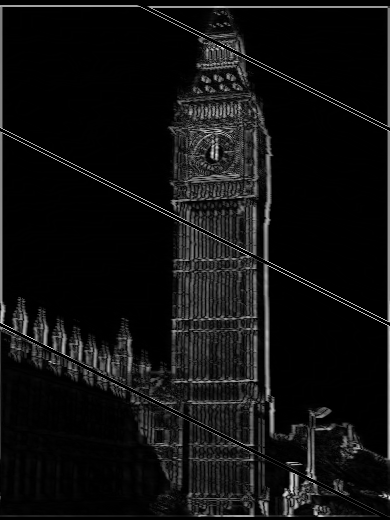
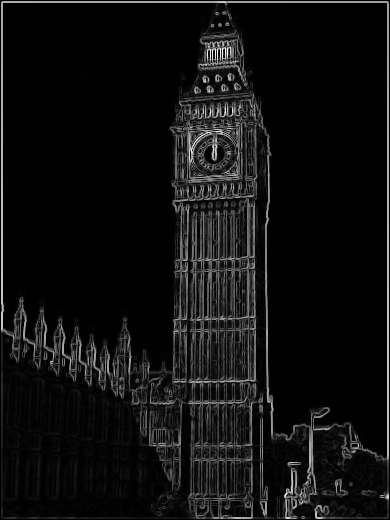
fix: fix stripes due to width and pitch diff

diff --git a/main.cpp b/main.cpp
@@ -39,44 +39,40 @@ float gaussian(float x, double sigma) {
     return expf(-(powf(x, 2)) / (2 * powf(sigma, 2))) / (2 * M_PI * powf(sigma, 2));
 }
 
-void applyBilateralFilterPixel(BYTE *src, BYTE *dst, int imageWidth, int imageHeight, int diameter, float sigmaI, float sigmaS, int i, int j) {
-    float iFiltered = 0;
-    float wP = 0;
-    int neighbor_i = 0;
-    int neighbor_j = 0;
-    int half = diameter / 2;
-
-    for (int ii = 0; ii < diameter; ii++) {
-        for (int jj = 0; jj < diameter; jj++) {
-            neighbor_i = i - (half - ii);
-            neighbor_j = j - (half - jj);
-            float gi = gaussian(src[neighbor_i * imageWidth + neighbor_j] - src[i * imageWidth + j], sigmaI);
-            float gs = gaussian(distance(i, j, neighbor_i, neighbor_j), sigmaS);
-            float w = gi * gs;
-            iFiltered = iFiltered + src[neighbor_i * imageWidth + neighbor_j] * w;
-            wP = wP + w;
-        }
-    }
-    iFiltered = iFiltered / wP;
-    dst[i * imageWidth + j] = iFiltered;
-}
-
-void applyBilateralFilter(BYTE *src, BYTE *dst, int imageWidth, int imageHeight, int diameter, float sigmaI, float sigmaS) {
+void applyBilateralFilter(BYTE *src, BYTE *dst, int imageWidth, int imageHeight, int imagePitch, int diameter, float sigmaI, float sigmaS) {
     int half = diameter / 2;
 
     for (int i = half; i < imageHeight - half; i++) {
         for (int j = half; j < imageWidth - half; j++) {
-            applyBilateralFilterPixel(src, dst, imageWidth, imageHeight, diameter, sigmaI, sigmaS, i, j);
+            float iFiltered = 0;
+            float wP = 0;
+            int neighbor_i = 0;
+            int neighbor_j = 0;
+            int half = diameter / 2;
+
+            for (int ii = 0; ii < diameter; ii++) {
+                for (int jj = 0; jj < diameter; jj++) {
+                    neighbor_i = i - (half - ii);
+                    neighbor_j = j - (half - jj);
+                    float gi = gaussian(src[neighbor_i * imagePitch + neighbor_j] - src[i * imagePitch + j], sigmaI);
+                    float gs = gaussian(distance(i, j, neighbor_i, neighbor_j), sigmaS);
+                    float w = gi * gs;
+                    iFiltered = iFiltered + src[neighbor_i * imagePitch + neighbor_j] * w;
+                    wP = wP + w;
+                }
+            }
+            iFiltered = iFiltered / wP;
+            dst[i * imagePitch + j] = iFiltered;
         }
     }
 }
 
 // https://github.com/brunokeymolen/canny/blob/master/canny.cpp
-void applySobelFilter(BYTE *src, BYTE *gradient, float *direction, int imageWidth, int imageHeight) {
+void applySobelFilter(BYTE *src, BYTE *gradient, float *direction, int imageWidth, int imageHeight, int imagePitch) {
     int xFilter[3][3] = {{-1, 0, 1}, {-2, 0, 2}, {-1, 0, 1}};
     int yFilter[3][3] = {{1, 2, 1}, {0, 0, 0}, {-1, -2, -1}};
     float maxGradient = 0.f;
-    float *gradientTemp = new float[imageWidth * imageHeight];
+    float *gradientTemp = new float[imagePitch * imageHeight];
     for (int i = 1; i < imageHeight - 1; i++) {
         for (int j = 1; j < imageWidth - 1; j++) {
             float xGradient = 0;
@@ -85,65 +81,65 @@ void applySobelFilter(BYTE *src, BYTE *gradient, float *direction, int imageWidt
                 for (int jj = 0; jj < 3; jj++) {
                     int neighbor_i = i + ii - 1;
                     int neighbor_j = j + jj - 1;
-                    xGradient += xFilter[ii][jj] * src[neighbor_i * imageWidth + neighbor_j];
-                    yGradient += yFilter[ii][jj] * src[neighbor_i * imageWidth + neighbor_j];
+                    xGradient += xFilter[ii][jj] * src[neighbor_i * imagePitch + neighbor_j];
+                    yGradient += yFilter[ii][jj] * src[neighbor_i * imagePitch + neighbor_j];
                 }
             }
             float grad = sqrtf(xGradient * xGradient + yGradient * yGradient);
 
-            gradientTemp[i * imageWidth + j] = grad;
+            gradientTemp[i * imagePitch + j] = grad;
             maxGradient = std::max(grad, maxGradient);
 
-            direction[i * imageWidth + j] = atan2f(yGradient, xGradient) * 180.f / M_PI;
-            if (direction[i * imageWidth + j] < 0) {
-                direction[i * imageWidth + j] += 180.f;
+            direction[i * imagePitch + j] = atan2f(yGradient, xGradient) * 180.f / M_PI;
+            if (direction[i * imagePitch + j] < 0) {
+                direction[i * imagePitch + j] += 180.f;
             }
         }
     }
 
     for (int i = 1; i < imageHeight - 1; i++) {
         for (int j = 1; j < imageWidth - 1; j++) {
-            gradient[i * imageWidth + j] = gradientTemp[i * imageWidth + j] / maxGradient * 255;
+            gradient[i * imagePitch + j] = gradientTemp[i * imagePitch + j] / maxGradient * 255;
         }
     }
 }
 
-void applyNonMaxSuppression(BYTE *src, BYTE *dst, float *direction, int imageWidth, int imageHeight) {
+void applyNonMaxSuppression(BYTE *src, BYTE *dst, float *direction, int imageWidth, int imageHeight, int imagePitch) {
     for (int i = 1; i < imageHeight - 1; i++) {
         for (int j = 1; j < imageWidth - 1; j++) {
             int q = 255;
             int r = 255;
 
-            if ((0 <= direction[i * imageWidth + j] && direction[i * imageWidth + j] < 22.5) || (157.5 <= direction[i * imageWidth + j] && direction[i * imageWidth + j] <= 180)) {
-                q = src[i * imageWidth + j + 1];
-                r = src[i * imageWidth + j - 1];
-            } else if (22.5 <= direction[i * imageWidth + j] && direction[i * imageWidth + j] < 67.5) {
-                q = src[(i + 1) * imageWidth + j - 1];
-                r = src[(i - 1) * imageWidth + j + 1];
-            } else if (67.5 <= direction[i * imageWidth + j] && direction[i * imageWidth + j] < 112.5) {
-                q = src[(i + 1) * imageWidth + j];
-                r = src[(i - 1) * imageWidth + j];
-            } else if (112.5 <= direction[i * imageWidth + j] && direction[i * imageWidth + j] < 157.5) {
-                q = src[(i - 1) * imageWidth + j - 1];
-                r = src[(i + 1) * imageWidth + j + 1];
+            if ((0 <= direction[i * imagePitch + j] && direction[i * imagePitch + j] < 22.5) || (157.5 <= direction[i * imagePitch + j] && direction[i * imagePitch + j] <= 180)) {
+                q = src[i * imagePitch + j + 1];
+                r = src[i * imagePitch + j - 1];
+            } else if (22.5 <= direction[i * imagePitch + j] && direction[i * imagePitch + j] < 67.5) {
+                q = src[(i + 1) * imagePitch + j - 1];
+                r = src[(i - 1) * imagePitch + j + 1];
+            } else if (67.5 <= direction[i * imagePitch + j] && direction[i * imagePitch + j] < 112.5) {
+                q = src[(i + 1) * imagePitch + j];
+                r = src[(i - 1) * imagePitch + j];
+            } else if (112.5 <= direction[i * imagePitch + j] && direction[i * imagePitch + j] < 157.5) {
+                q = src[(i - 1) * imagePitch + j - 1];
+                r = src[(i + 1) * imagePitch + j + 1];
             }
-            if ((src[i * imageWidth + j] >= q) && (src[i * imageWidth + j] >= r)) {
-                dst[i * imageWidth + j] = src[i * imageWidth + j];
+            if ((src[i * imagePitch + j] >= q) && (src[i * imagePitch + j] >= r)) {
+                dst[i * imagePitch + j] = src[i * imagePitch + j];
             } else {
-                dst[i * imageWidth + j] = 0;
+                dst[i * imagePitch + j] = 0;
             }
         }
     }
 }
 
-void applyThreshold(BYTE *image, int imageWidth, int imageHeight) {
+void applyThreshold(BYTE *image, int imageWidth, int imageHeight, int imagePitch) {
     float lowThresholdRatio = 0.05f;
     float highThresholdRatio = 0.09f;
     int maxPixel = 0;
     for (int i = 1; i < imageHeight - 1; i++) {
         for (int j = 1; j < imageWidth - 1; j++) {
-            if (image[i * imageWidth + j] > maxPixel) {
-                maxPixel = image[i * imageWidth + j];
+            if (image[i * imagePitch + j] > maxPixel) {
+                maxPixel = image[i * imagePitch + j];
             }
         }
     }
@@ -151,28 +147,28 @@ void applyThreshold(BYTE *image, int imageWidth, int imageHeight) {
     int lowThreshold = highThreshold * lowThresholdRatio;
     for (int i = 1; i < imageHeight - 1; i++) {
         for (int j = 1; j < imageWidth - 1; j++) {
-            if (image[i * imageWidth + j] >= highThreshold) {
-                image[i * imageWidth + j] = STRONG;
-            } else if (image[i * imageWidth + j] >= lowThreshold) {
-                image[i * imageWidth + j] = WEAK;
+            if (image[i * imagePitch + j] >= highThreshold) {
+                image[i * imagePitch + j] = STRONG;
+            } else if (image[i * imagePitch + j] >= lowThreshold) {
+                image[i * imagePitch + j] = WEAK;
             } else {
-                image[i * imageWidth + j] = 0;
+                image[i * imagePitch + j] = 0;
             }
         }
     }
 }
 
-void applyHysteresis(BYTE *image, int imageWidth, int imageHeight) {
+void applyHysteresis(BYTE *image, int imageWidth, int imageHeight, int imagePitch) {
     for (int i = 1; i < imageHeight - 1; i++) {
         for (int j = 1; j < imageWidth - 1; j++) {
-            if (image[i * imageWidth+ j] == WEAK) {
-                if ((image[(i + 1) * imageWidth + j - 1] == STRONG) || (image[(i + 1) * imageWidth + j] == STRONG) 
-                || (image[(i + 1) * imageWidth + j + 1] == STRONG) || (image[i * imageWidth + j - 1] == STRONG) 
-                || (image[i * imageWidth + j + 1] == STRONG) || (image[(i - 1) * imageWidth + j - 1] == STRONG) 
-                || (image[(i - 1) * imageWidth + j] == STRONG) || (image[(i - 1) * imageWidth + j + 1] == STRONG)) {
-                    image[i* imageWidth+ j] = STRONG;
+            if (image[i * imagePitch+ j] == WEAK) {
+                if ((image[(i + 1) * imagePitch + j - 1] == STRONG) || (image[(i + 1) * imagePitch + j] == STRONG) 
+                || (image[(i + 1) * imagePitch + j + 1] == STRONG) || (image[i * imagePitch + j - 1] == STRONG) 
+                || (image[i * imagePitch + j + 1] == STRONG) || (image[(i - 1) * imagePitch + j - 1] == STRONG) 
+                || (image[(i - 1) * imagePitch + j] == STRONG) || (image[(i - 1) * imagePitch + j + 1] == STRONG)) {
+                    image[i* imagePitch+ j] = STRONG;
                 } else {
-                    image[i* imageWidth+ j] = 0;
+                    image[i* imagePitch+ j] = 0;
                 }
             }
         }
@@ -183,13 +179,17 @@ void printImageInfo(FIBITMAP *image) {
     std::cout << "BPP: " << bpp << " Width: " << width << " Height: " << height << " Pitch: " << pitch << " Red mask: " << FreeImage_GetRedMask(image) << std::endl;
 }
 
-void saveImage(const char *filepath, BYTE *dst, const char *stageName){
-    FIBITMAP *image = FreeImage_ConvertFromRawBits(dst, width, height, pitch, bpp, 0, 0, 0);
+void saveImage(const char *filepath, FIBITMAP *image, const char *stageName){
     std::string outpath;
     outpath = std::string(filepath); 
     outpath.insert(outpath.length() - 4, stageName);
     FreeImage_Save(FIF_PNG, image, outpath.c_str());
     std::cout << outpath << " complete" << std::endl;
+}
+
+void saveImage(const char *filepath, BYTE *dst, const char *stageName){
+    FIBITMAP *image = FreeImage_ConvertFromRawBits(dst, width, height, pitch, bpp, 0, 0, 0);
+    saveImage(filepath, image, stageName);
 }
 
 void start(int procID, int nproc, int argc, char* argv[]){
@@ -201,24 +201,24 @@ void start(int procID, int nproc, int argc, char* argv[]){
     // assign tasks
     const char* filepath = "";
 
-        if(argc < 3){
-            std::cout << "Usage: mpirun -n <# of cores> ./main -f <image file>" << std::endl;
-            exit(-1);
-        }
-        if(strcmp(argv[1], "-f") == 0){
-            filepath = argv[2];
-        }
-        else{
-            std::cout << "Usage: mpirun -n <# of cores> ./main -f <image file>" << std::endl;
-            exit(-1);
-        }
+    if(argc < 3){
+        std::cout << "Usage: mpirun -n <# of cores> ./main -f <image file>" << std::endl;
+        exit(-1);
+    }
+    if(strcmp(argv[1], "-f") == 0){
+        filepath = argv[2];
+    }
+    else{
+        std::cout << "Usage: mpirun -n <# of cores> ./main -f <image file>" << std::endl;
+        exit(-1);
+    }
 
-        IMAGE = FreeImage_Load(FIF_PNG, filepath);
-        if(IMAGE == NULL){
-            error_exit("image file not found \"%s\"\n", filepath);
-        }
-        IMAGE = FreeImage_ConvertToGreyscale(IMAGE);
-        IMAGE = FreeImage_ConvertTo8Bits(IMAGE);
+    IMAGE = FreeImage_Load(FIF_PNG, filepath);
+    if(IMAGE == NULL){
+        error_exit("image file not found \"%s\"\n", filepath);
+    }
+    IMAGE = FreeImage_ConvertToGreyscale(IMAGE);
+    IMAGE = FreeImage_ConvertTo8Bits(IMAGE);
 
     bpp = FreeImage_GetBPP(IMAGE);
     width = FreeImage_GetWidth(IMAGE);
@@ -227,34 +227,34 @@ void start(int procID, int nproc, int argc, char* argv[]){
 
     printImageInfo(IMAGE);
 
-    BYTE *src = new BYTE[width * height];
-    BYTE *dst = new BYTE[width * height]();
+    BYTE *src = new BYTE[pitch * height];
+    BYTE *dst = new BYTE[pitch * height]();
 
     FreeImage_ConvertToRawBits(src, IMAGE, pitch, bpp, 0, 0, 0);
 
-    applyBilateralFilter(src, dst, width, height, 8, 30.f, 20.f);
+    applyBilateralFilter(src, dst, width, height, pitch, 5, 30.f, 20.f);
     saveImage(filepath, dst, "-1-bilateral");
 
     src = dst;
-    dst = new BYTE[width * height]();
+    dst = new BYTE[pitch * height]();
     float *direction = new float[width * height];
 
-    applySobelFilter(src, dst, direction, width, height);
+    applySobelFilter(src, dst, direction, width, height, pitch);
     saveImage(filepath, dst, "-2-sobel");
 
     src = dst;
-    dst = new BYTE[width * height]();
+    dst = new BYTE[pitch * height]();
 
-    applyNonMaxSuppression(src, dst, direction, width, height);
+    applyNonMaxSuppression(src, dst, direction, width, height, pitch);
     saveImage(filepath, dst, "-3-nonmax");
 
-    applyThreshold(dst, width, height);
+    applyThreshold(dst, width, height, pitch);
     saveImage(filepath, dst, "-4-thres");
 
     // src = dst;
     // dst = new BYTE[width * height]();
 
-    // applyHysteresis(dst, width,height);
+    // applyHysteresis(dst, width,height, pitch);
     // saveImage(filepath, dst, "-5-hyster");
 }
 
